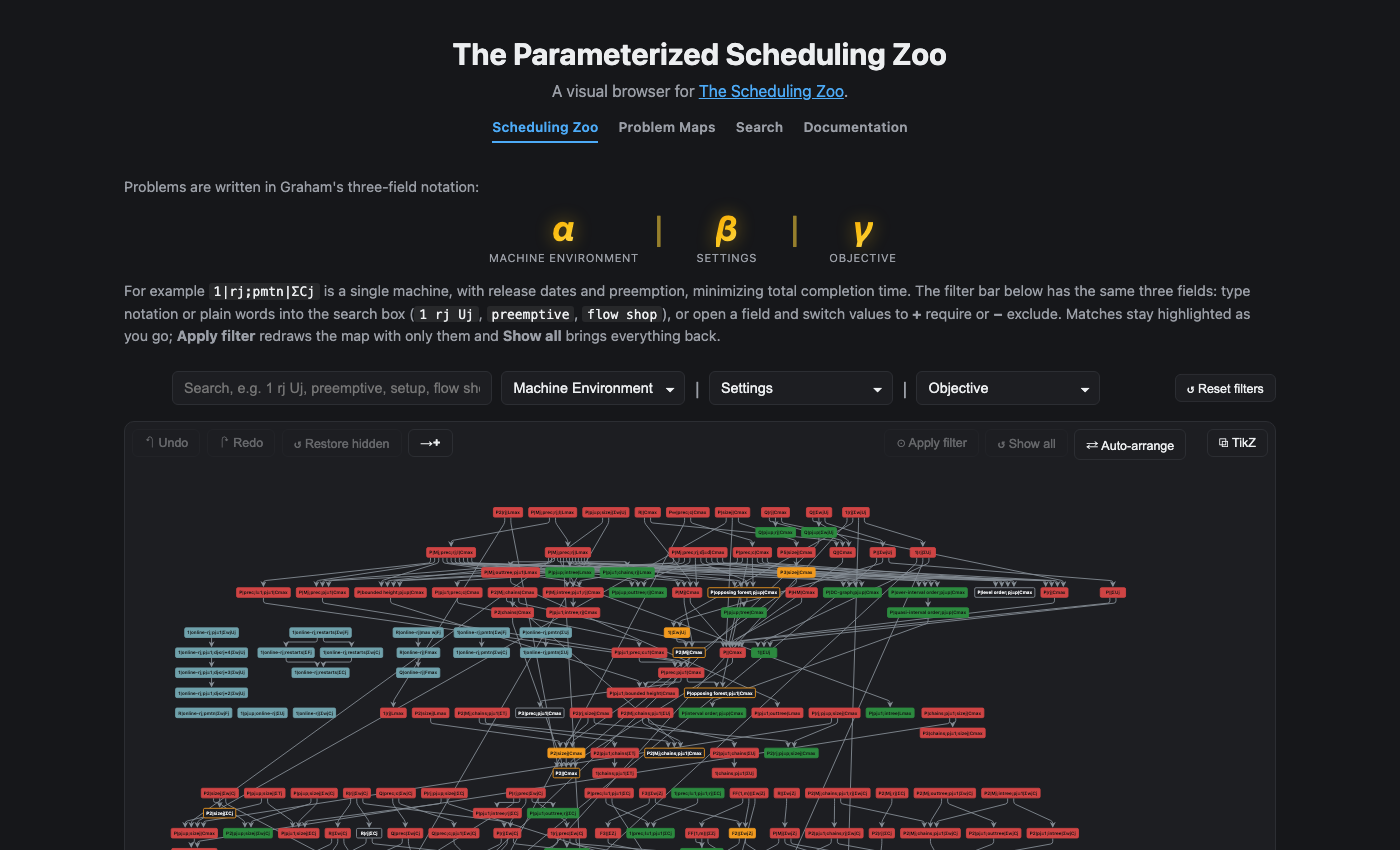
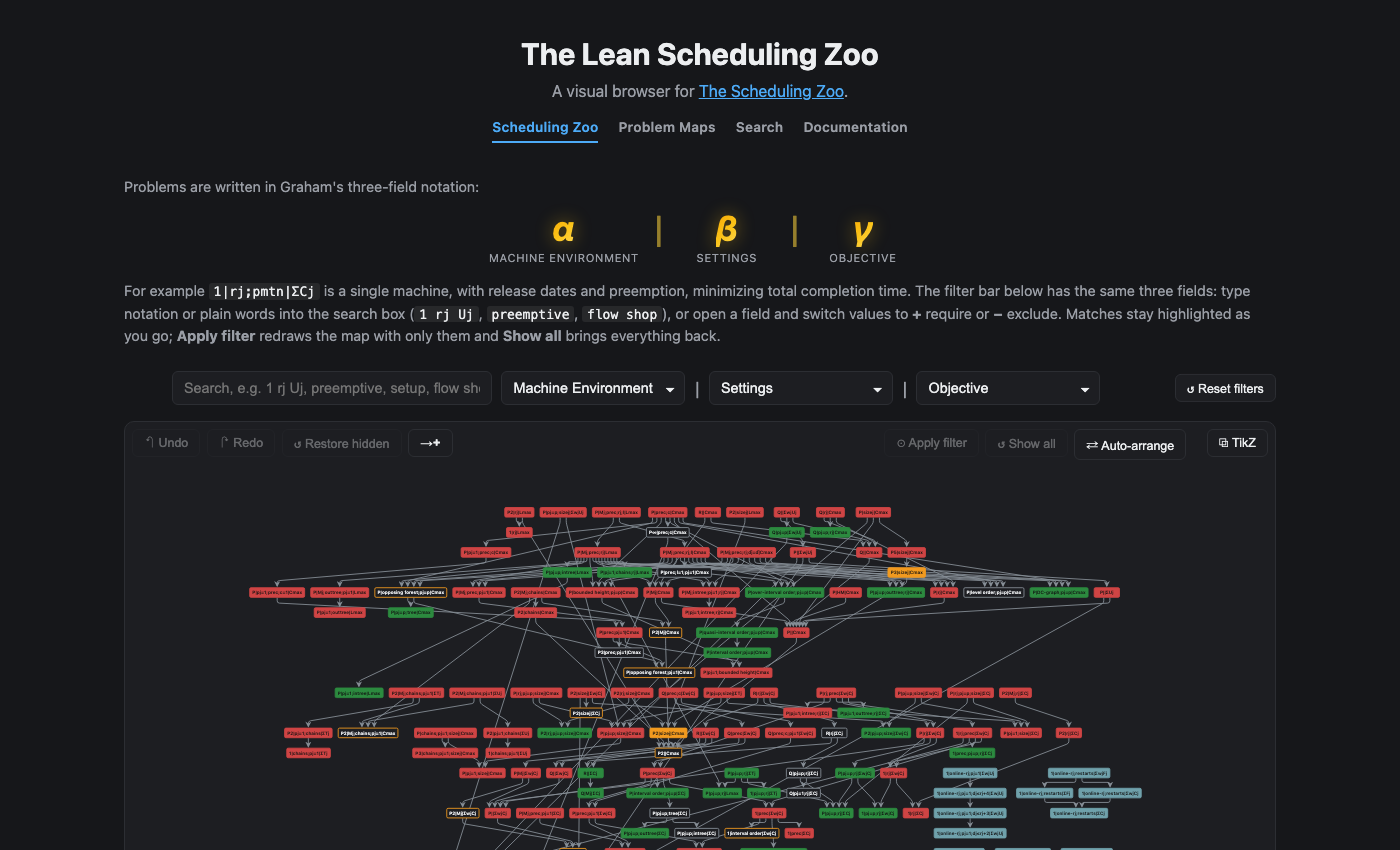
lean zoo

Changed region(s): [[0.1229, 0.5812, 0.8293, 1.0], [0.3071, 0.0306, 0.6757, 0.0918]]

diff --git a/_includes/author-profile.html b/_includes/author-profile.html
@@ -49,11 +49,11 @@
       {% endif %} -->
       {% if author.googlescholar %}
         <!-- <li><a href="{{ author.googlescholar }}"><i class="ai ai-google-scholar icon-pad-right"></i>Google Scholar</a></li> -->
-        <li><a href="{{ author.googlescholar }}"><i class="fas fa-fw fa-graduation-cap" aria-hidden="true"></i> Google Scholar</a></li>
-        <li><a href="https://dblp.org/pid/309/5696.html"><i class="ai ai-dblp icon-pad-right" style="font-size: 1.3em; vertical-align: middle;"></i>dblp</a></li>
+        <li><a href="{{ author.googlescholar }}"><i class="fas fa-fw fa-graduation-cap icon-pad-right" aria-hidden="true"></i>Google Scholar</a></li>
+        <li><a href="https://dblp.org/pid/309/5696.html"><i class="ai ai-dblp icon-pad-right"></i>dblp</a></li>
       {% endif %}
       {% if author.arxiv %}
-        <li><a href="{{ author.arxiv }}"><i class="ai ai-arxiv ai-fw icon-pad-right" style="font-size: 1.3em; vertical-align: middle;"></i>arXiv</a></li>
+        <li><a href="{{ author.arxiv }}"><i class="ai ai-arxiv ai-fw icon-pad-right"></i>arXiv</a></li>
       {% endif %}
       {% if author.semantic %}
         <li><a href="{{ author.semantic }}"><i class="ai ai-semantic-scholar ai-fw icon-pad-right"></i>Semantic Scholar</a></li>

diff --git a/assets/js/external-links.js b/assets/js/external-links.js
@@ -1,0 +1,22 @@
+/* Open links that leave the site in a new tab, so the site stays open.
+   Counts as leaving: another host, the Scheduling Zoo app (served from this
+   host but a separate app), and PDFs. Mail links and in-page anchors are left
+   alone. */
+(function () {
+  var APPS = ["/lean-scheduling-zoo/", "/parameterized-scheduling-zoo/"];
+  document.querySelectorAll("a[href]").forEach(function (a) {
+    if (a.hasAttribute("target")) return;
+    var href = a.getAttribute("href");
+    if (!href || href.charAt(0) === "#") return;
+    var url;
+    try { url = new URL(a.href, location.href); } catch (e) { return; }
+    if (url.protocol !== "http:" && url.protocol !== "https:") return;
+    var leaves = url.host !== location.host ||
+      APPS.some(function (p) { return url.pathname.indexOf(p) === 0; }) ||
+      /\.pdf$/i.test(url.pathname);
+    if (leaves) {
+      a.target = "_blank";
+      a.rel = ((a.rel || "") + " noopener noreferrer").trim();
+    }
+  });
+})();

diff --git a/_sass/layout/_sidebar.scss b/_sass/layout/_sidebar.scss
@@ -266,3 +266,33 @@
     }
   }
 }
+
+/* Sidebar links: every icon sits in the same fixed-width box, so the text
+   starts at the same x for Font Awesome and Academicons glyphs alike. */
+.author__urls li i {
+  display: inline-block;
+  box-sizing: content-box;
+  width: 1.5em;
+  padding-right: 0;
+  margin-right: 0.5em;
+  text-align: center;
+  vertical-align: middle;
+
+  /* Academicons glyphs run small: scale the glyph, keep the box the same size */
+  &.ai {
+    font-size: 1.25em;
+    width: 1.2em;
+    margin-right: 0.4em;
+  }
+}
+
+/* Long affiliation/location lines wrap under the text, not under the icon */
+.author__urls li.author__desktop {
+  white-space: normal;
+  padding-left: 2em;
+  text-indent: -2em;
+
+  i {
+    text-indent: 0;
+  }
+}

diff --git a/_includes/scripts.html b/_includes/scripts.html
@@ -1,4 +1,5 @@
 <script src="{{ '/assets/js/main.min.js' | relative_url }}"></script>
+<script src="{{ '/assets/js/external-links.js' | relative_url }}"></script>
 {% if page.gallery %}
 <script src="https://cdn.jsdelivr.net/npm/justifiedGallery@3.8.1/dist/js/jquery.justifiedGallery.min.js"></script>
 <script src="{{ '/assets/photoswipe/dist/umd/photoswipe.umd.min.js' | relative_url }}"></script>

diff --git a/scripts/check_site.py b/scripts/check_site.py
@@ -33,7 +33,7 @@ for page in root.rglob('*.html'):
             continue
         if parts.netloc and parts.netloc != 'yuvalyitz.github.io':
             continue
-        if not parts.path or parts.path.startswith('/parameterized-scheduling-zoo/'):
+        if not parts.path or parts.path.startswith(('/lean-scheduling-zoo/', '/parameterized-scheduling-zoo/')):
             continue
         target = (root / unquote(parts.path).lstrip('/')) if parts.path.startswith('/') else (page.parent / unquote(parts.path))
         if not target.exists() and not target.with_suffix(".html").exists():

diff --git a/_pages/scheduling-zoo.md b/_pages/scheduling-zoo.md
@@ -1,19 +1,21 @@
 ---
 layout: single
-title: "The Parameterized Scheduling Zoo"
+title: "The Lean Scheduling Zoo"
 permalink: /scheduling-zoo/
 author_profile: true
 ---
 
-<a href="https://yuvalyitz.github.io/parameterized-scheduling-zoo/#/schedulingzoo">
-  <img src="/images/projects/scheduling-zoo.png" alt="Screenshot of the Parameterized Scheduling Zoo problem map" style="border: 1px solid var(--global-border-color); border-radius: 6px;">
+<a href="https://yuvalyitz.github.io/lean-scheduling-zoo/#/schedulingzoo">
+  <img src="/images/projects/scheduling-zoo.png" alt="Screenshot of the Lean Scheduling Zoo problem map" style="border: 1px solid var(--global-border-color); border-radius: 6px;">
 </a>
 
 An interactive browser for scheduling complexity results, built on [The Scheduling Zoo](https://schedulingzoo.lip6.fr/). Explore related problems, follow reductions, and identify open questions.
 
+The problems and reductions are being formalized in [Lean](https://lean-lang.org/) and published on [Lax](https://laxarchive.org/), an archive where each mathematical statement is paired with Lean code and each proof is checked by a proof assistant. The Zoo links into that formalization, so a reduction can be checked rather than only trusted.
+
 <p>
-  <a href="https://yuvalyitz.github.io/parameterized-scheduling-zoo/#/schedulingzoo" class="btn btn--large">Open the Zoo &rarr;</a>
-  <a href="https://github.com/yuvalyitz/parameterized-scheduling-zoo" class="btn btn--inverse btn--large"><i class="fab fa-github"></i> Source on GitHub</a>
+  <a href="https://yuvalyitz.github.io/lean-scheduling-zoo/#/schedulingzoo" class="btn btn--large">Open the Zoo &rarr;</a>
+  <a href="https://github.com/yuvalyitz/lean-scheduling-zoo" class="btn btn--inverse btn--large"><i class="fab fa-github"></i> Source on GitHub</a>
 </p>
 
 ### What you can do
@@ -21,10 +23,11 @@ An interactive browser for scheduling complexity results, built on [The Scheduli
 - **Browse the Scheduling Zoo.** Filter problems in Graham's three-field notation α \| β \| γ, and follow reductions between them.
 - **Design problem maps.** Build your own map of related problems and export it as TikZ.
 - **Look up results per parameter.** Explore recorded tractability and hardness results by parameter, with references. Missing entries may reflect gaps in the dataset.
+- **Check the formalization.** Problems and reductions link to their Lean formalization on Lax, marked as fully formalized or as depending on a statement that is only stated.
 - **Contribute results.** Propose classifications and reductions, then submit them using “Send my classifications”.
 
 <div class="notice--warning" markdown="1">
-**Work in progress.** The parameterized results are an early seed dataset and are still being checked. If you find a missing result, a wrong classification, or a better reference, please [email me](mailto:{{ site.author.email }}) or [open an issue](https://github.com/yuvalyitz/parameterized-scheduling-zoo/issues).
+**Work in progress.** The parameterized results are an early seed dataset and are still being checked. If you find a missing result, a wrong classification, or a better reference, please [email me](mailto:{{ site.author.email }}) or [open an issue](https://github.com/yuvalyitz/lean-scheduling-zoo/issues).
 </div>
 
 I’m developing the Zoo into a shared reference for scheduling complexity. Contributions of results, references, and corrections are welcome. If you would like to collaborate, [email me](mailto:{{ site.author.email }}).

diff --git a/_teaching/seminar_algorithms_in_the_wild.md b/_teaching/seminar_algorithms_in_the_wild.md
@@ -1,0 +1,21 @@
+---
+title: "Seminar EIM: Algorithms in the Wild"
+collection: teaching
+type: "Seminar"
+role: "Seminar Organizer"
+permalink: /teaching/seminar-algorithms-in-the-wild
+venue: "Hamburg University of Technology, Institute for Algorithms and Complexity"
+date: 2026-10-13
+period: "Winter 2026/27"
+location: "Hamburg, Germany"
+---
+
+**Role:** Organizer, together with Prof. [Matthias Mnich](https://www.tuhh.de/algo/research/mnich)
+
+### Seminar overview
+Many computational problems have theoretically efficient algorithms that do not work well in practice: the problems are too abstracted, the algorithms ignore the specifics of real-life data, or their analysis hides large constants in the running time. In this seminar, students seek insights into such algorithms and use the methods of Algorithm Engineering to implement fundamental algorithmic primitives efficiently, in an accessible and contemporary way, in a modern language such as C++, Rust, or Python.
+
+### Format
+The seminar offers five topics of real-world algorithm applications, in areas such as traffic routing, matching markets, and task scheduling. Each topic is covered by a team of two students, who design and implement a library for their problem based on the algorithm descriptions in the literature. In regular meetings, the teams present milestones of their work and receive feedback. At the end of the term, each team presents its library, demonstrates its performance on a real-life data set, and submits a documentation. The seminar is worth 3 ECTS points.
+
+The seminar is open to students of Computer Science, Data Science, Industrial Engineering and Management, and Technomathematics.

diff --git a/_pages/research-tools.md b/_pages/research-tools.md
@@ -20,15 +20,15 @@ Tools I develop for exploring scheduling problems and research literature.
 
 <div class="tool-card">
   <div class="tool-card__img">
-    <a href="/scheduling-zoo/"><img src="/images/projects/scheduling-zoo.png" alt="Parameterized Scheduling Zoo screenshot"></a>
+    <a href="/scheduling-zoo/"><img src="/images/projects/scheduling-zoo.png" alt="Lean Scheduling Zoo screenshot"></a>
   </div>
   <div class="tool-card__body">
-    <h2>The Parameterized Scheduling Zoo</h2>
-    <p>An interactive browser for scheduling complexity results, built on <a href="https://schedulingzoo.lip6.fr/">The Scheduling Zoo</a>. Explore related problems, follow reductions, and identify open questions.</p>
+    <h2>The Lean Scheduling Zoo</h2>
+    <p>An interactive browser for scheduling complexity results, built on <a href="https://schedulingzoo.lip6.fr/">The Scheduling Zoo</a>. Explore related problems, follow reductions, and identify open questions. Problems and reductions link to their Lean formalization on <a href="https://laxarchive.org/">Lax</a>.</p>
     <p>
-      <a href="https://yuvalyitz.github.io/parameterized-scheduling-zoo/#/schedulingzoo" class="btn">Open the Zoo</a>
+      <a href="https://yuvalyitz.github.io/lean-scheduling-zoo/#/schedulingzoo" class="btn">Open the Zoo</a>
       <a href="/scheduling-zoo/" class="btn btn--inverse">About</a>
-      <a href="https://github.com/yuvalyitz/parameterized-scheduling-zoo" class="btn btn--inverse"><i class="fab fa-github"></i> Code</a>
+      <a href="https://github.com/yuvalyitz/lean-scheduling-zoo" class="btn btn--inverse"><i class="fab fa-github"></i> Code</a>
     </p>
   </div>
 </div>

diff --git a/_teaching/algorithms_and_data_structures.md b/_teaching/algorithms_and_data_structures.md
@@ -1,0 +1,18 @@
+---
+title: "Algorithms and Data Structures (ADS)"
+collection: teaching
+type: "Undergraduate course"
+role: "Teaching Assistant"
+permalink: /teaching/algorithms-and-data-structures
+venue: "Hamburg University of Technology, Institute for Algorithms and Complexity"
+date: 2026-10-12
+period: "Winter 2026/27"
+location: "Hamburg, Germany"
+---
+
+**Role:** Teaching Assistant
+
+### Course overview
+This introductory course on the design and analysis of algorithms and data structures is taught by Prof. [Matthias Mnich](https://www.tuhh.de/algo/research/mnich) at the Institute for Algorithms and Complexity. I teach tutorials for the course.
+
+Course information is on the [institute's teaching page](https://www.tuhh.de/algo/teaching.html).
